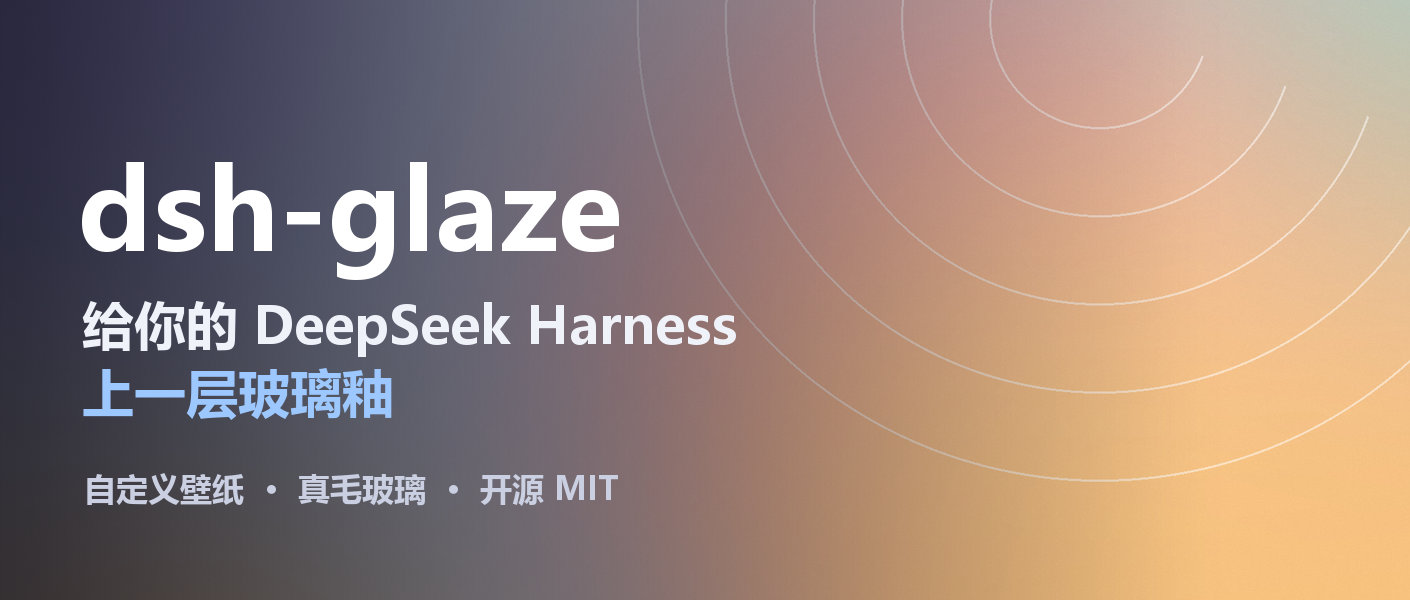
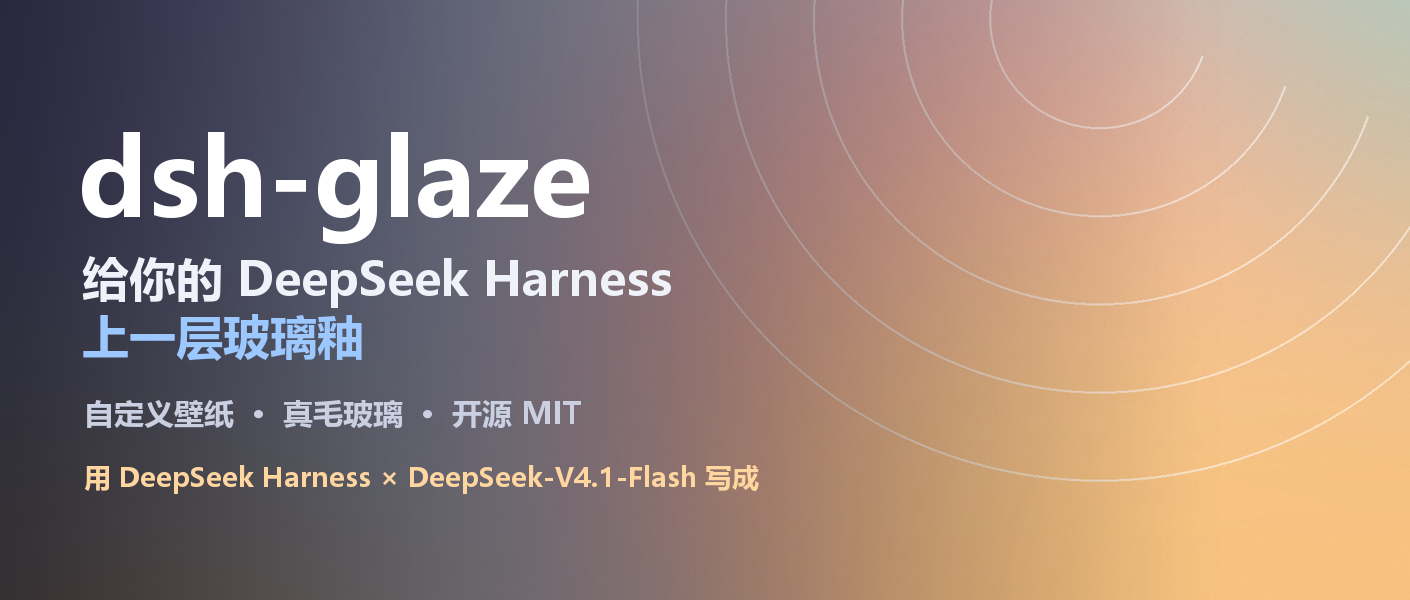
docs(article): 改成「用 Harness 写 Harness」的叙事
原文是平铺直叙的功能介绍，但这件事真正有意思的地方在于：插件是用它自己要装进去
的那个 Harness 写出来的，全程 DeepSeek-V4.1-Flash。

- 标题改为「我用 DeepSeek Harness，给 DeepSeek Harness 写了个外观插件」
- 正文重写为完整过程：起因 → 和调透明度的区别 → 四个真实踩过的坑 → 深色 →
  可调项 → 关掉能恢复 → 安装 → 说明
- 四个坑都来自真实调试经历（backdrop-filter 采样不到 z-index:-1、CSS 注释里一个
  反引号导致插件静默不加载、启动时配置表未就绪、清底判断的自我引用循环）
- 封面增加一行「用 DeepSeek Harness × DeepSeek-V4.1-Flash 写成」

Changed region(s): [[0.0312, 0.21, 0.5305, 0.72], [0.0624, 0.78, 0.5617, 0.84]]

diff --git a/tools/article/compose-figures.py b/tools/article/compose-figures.py
@@ -116,10 +116,12 @@ scrim = scrim.filter(ImageFilter.GaussianBlur(24))
 cover = Image.composite(Image.new("RGB", (COVER_W, COVER_H), (14, 16, 28)), band, scrim)
 
 cd = ImageDraw.Draw(cover)
-cd.text((78, 132), "dsh-glaze", font=font(112), fill=(255, 255, 255))
-cd.text((82, 288), "给你的 DeepSeek Harness", font=font(52), fill=(240, 242, 250))
-cd.text((82, 356), "上一层玻璃釉", font=font(52), fill=(156, 200, 255))
-cd.text((84, 466), "自定义壁纸  ·  真毛玻璃  ·  开源 MIT", font=font(32), fill=(202, 208, 226))
+cd.text((78, 104), "dsh-glaze", font=font(106), fill=(255, 255, 255))
+cd.text((82, 246), "给你的 DeepSeek Harness", font=font(47), fill=(240, 242, 250))
+cd.text((82, 304), "上一层玻璃釉", font=font(47), fill=(156, 200, 255))
+cd.text((84, 392), "自定义壁纸  ·  真毛玻璃  ·  开源 MIT", font=font(30), fill=(202, 208, 226))
+# The hook of the story: this plugin was built by Harness itself, on V4.1-Flash.
+cd.text((84, 458), "用 DeepSeek Harness × DeepSeek-V4.1-Flash 写成", font=font(27), fill=(255, 214, 160))
 cover.save(IMAGES / "cover.png", optimize=True)
 print("cover.png", cover.size)
 

diff --git a/docs/article/wechat.md b/docs/article/wechat.md
@@ -1,75 +1,104 @@
-# 给 DeepSeek Harness 换一套「玻璃皮肤」：dsh-glaze
+# 我用 DeepSeek Harness，给 DeepSeek Harness 写了个外观插件
 
-> 标题备选（挑一个用，或自己改）：
-> 1. 我给 DeepSeek Harness 做了套玻璃皮肤，壁纸终于是「透」出来的
-> 2. 把 DeepSeek Harness 泡进一层毛玻璃里｜dsh-glaze
-> 3. 用了两周，我给 DeepSeek Harness 写了个外观插件
+> 标题备选：
+> 1. 我用 DeepSeek Harness，给 DeepSeek Harness 写了个外观插件
+> 2. 全程 DeepSeek-V4.1-Flash：让它给 Harness 自己换一套玻璃皮肤
+> 3. 用 Harness 写 Harness：一个「自己改自己」的皮肤插件
 
 ---
 
-用 DeepSeek Harness 写代码久了，会有一个很朴素的念头：**这界面能不能好看一点。**
+这件事有点绕：**我用来写插件的东西，就是这个插件要装进去的东西。**
 
-不是功能不够，是每天盯着同一块白底太久。于是有了这个插件：**dsh-glaze**。
+过去这些天，我在 DeepSeek Harness 里开了一个会话，跟它说「我想换个壁纸、界面能不能透一点」，然后一路迭代到能发布。模型全程是 **DeepSeek-V4.1-Flash**，没有换过。
 
-名字里的 glaze 是「给器物上一层玻璃釉」。我想做的不是把界面调透明——那只是把底色变淡；我想让壁纸**真的从一层玻璃后面透出来**。
+我做的是提需求、看效果、指出哪里不对；它负责写代码、跑测试、截图自查。最后出来的东西叫 **dsh-glaze**。
 
 ![浅色主题下的 dsh-glaze](./images/fig-01-light.png)
 
-## 一、先说它和「调透明度」的区别
+## 一、起因很朴素
 
-很多「透明主题」的做法是把背景色加个 alpha，看起来像蒙了层塑料膜。dsh-glaze 用的是浏览器真正的 `backdrop-filter`：整个窗口后面铺着一张壁纸，前面盖一层磨砂玻璃，**模糊是滤镜做出的**，不是画上去的。
+每天用 Harness 写代码，界面是同一块白底。不是功能不够，就是想好看一点。
 
-所以毛玻璃开关一开一关，差别是这样的：
+我先试了常见的做法：把背景色调半透明。结果很难看——那不叫通透，叫「蒙了层脏塑料膜」。我想要的其实是**壁纸从一层玻璃后面透出来**。
 
-![左：关闭毛玻璃（壁纸是清晰的）｜右：开启毛玻璃（细节被糊掉）](./images/fig-05-compare.png)
+于是有了这个需求：铺一张壁纸，前面盖一层真的磨砂玻璃，字要清楚，壁纸要看得见。
 
-左边能看清壁纸上的同心圆弧，右边只剩柔和的光晕。**文字在右边才真正干净**——因为细节被模糊掉了，不会被壁纸纹理干扰。
+## 二、它和「调透明度」不是一回事
 
-这也是我坚持做「开关」的原因：模糊是滤镜，有代价。老机器、远程桌面、或者你就是喜欢清清爽爽，关掉它，插件会退化成纯半透明底色，更省也更快。
+关键差别在这张图里：
 
-## 二、深色也一起做了
+![左：关闭毛玻璃，壁纸清晰｜右：开启毛玻璃，细节被糊掉](./images/fig-05-compare.png)
 
-同一个插件，切到深色主题不会变成「白玻璃」，色调会跟着换：
+左边能看清壁纸上的同心圆弧，右边只剩柔光。**模糊是浏览器真的做了 `backdrop-filter`**，不是画上去的色块。
+
+正因为它是滤镜（有性能代价），我坚持留了个开关：不想模糊就关掉，退化成纯半透明底色，更省也更快。
+
+## 三、中间踩的坑，比想象中多
+
+这部分我觉得比功能介绍更有意思——**每一个坑都是我看出来的，改是它改的**。
+
+**① 壁纸死活不显示。**
+
+调了半天透明度，壁纸就是不出现。查下来是两个原因叠加：壁纸当时放在 `z-index:-1` 的独立图层上，而 `backdrop-filter` 采样的是「元素下面已绘制的像素」，那个图层根本不在采样范围里；同时外壳自己还画了一层不透明底色，把壁纸盖得死死的。
+
+改法：壁纸改成 `<body>` 自己的背景，进入页面绘制顺序，正好在内容层下面。
+
+**② 插件整个没加载，界面比原版还丑。**
+
+有一次改完，效果突然变得很差。控制台里一行字：`import failed: data is not defined`。
+
+原因是 CSS 的模板字符串里，我在注释中手滑写了一个反引号，把字符串提前闭合了，后面整个样式表被当成 JavaScript 解析。`node --check` 查不出这种问题——语法完全合法，一加载就炸。
+
+后来专门加了一个冒烟测试：用最小 React/DOM 桩，真的把插件跑一遍。这个检查后来又拦住我两次。
+
+**③ 关掉毛玻璃，重启又自己开了。**
+
+这其实是两个 bug。一个是我自己的维护脚本把配置覆盖了；更隐蔽的是，插件启动时只读了一次配置——而那一刻配置表还没就绪，读取**静默失败**，于是用了默认值，之后再也不重试。
+
+改法：订阅配置表 + 启动后有限重试。
+
+**④ 侧边栏偶尔变回原样。**
+
+这个最阴。清底色的逻辑是「判断这个容器背景是否不透明」——可一旦清掉，它算出来就是透明的，于是下一轮判断「不需要清」，把规则删了，它又变回不透明。**判断条件把自己算了进去**，形成自我引用循环。
+
+最后改成只看几何、不看颜色，并且规则按结构位置生成而不是往 DOM 上打标记——因为 React 重新渲染会覆写 `className`。
+
+## 四、深色也一起做了
+
+切换主题时，玻璃色调和遮罩会跟着换，不需要配两套：
 
 ![深色主题](./images/fig-02-dark.png)
 
-壁纸、玻璃色调、遮罩都是跟着主题走的，不需要你手动配两套。
+## 五、能调什么
 
-## 三、能调什么
-
-所有设置都在 **设置 → 外观** 里，一个页面：
+设置里就一个「外观」页面：
 
 ![设置页](./images/fig-03-settings.png)
 
 - **背景图** — PNG / JPEG / WebP / GIF / AVIF / BMP / SVG，单张最大 32 MB
-- **界面不透明度** — 0–100% 连续可调，100% 就是原版外观
-- **背景模糊** — 0–60px，模糊半径越大细节越少、文字越清楚
-- **背景明暗遮罩** — 用主题色压一层，亮色壁纸也能看清字
-- **整体压暗** — 独立的黑色遮罩，适合高对比的图
+- **界面不透明度** — 0–100%，100% 就是原版外观
+- **背景模糊** — 0–60px
+- **背景明暗遮罩 / 整体压暗** — 亮色、高对比的图也能看清字
 - **填充方式 / 对齐位置** — 铺满、完整显示、原始尺寸、平铺
-- **实时预览** — 右上角直接看到叠加结果，不用来回切
+- **实时预览** — 右上角当场看到叠加效果
 
-底部输入框下面那行统计（轮次 / token / 缓存命中）我也顺手做成了一个小胶囊，不然它悬在玻璃上像被人忘在那儿的文字。
+底部输入框下面那行统计（轮次 / token / 缓存命中）我也顺手收成了一个小胶囊——不然它悬在玻璃上，特别像被人忘在那儿的文字。
 
-## 四、不想用了，关掉就干净了
+## 六、不想用了，关掉就干净
 
-这一点我做得比较较真：**关掉总开关，界面必须完全恢复原样**，不能留下半点半透明或者被清空的底色。
+这条我做得比较较真：**关掉总开关，界面必须完全恢复原样**，不能留半点半透明或者被清空的底色。
 
 ![关闭后恢复原版](./images/fig-04-stock.png)
 
-不是把透明度调到 100%，而是真的把插件加的所有东西——玻璃层、遮罩、清底规则、壁纸——全部拆掉。壁纸和数值会留着，下次打开还在。
+不是把透明度调到 100%，而是把插件加的东西——玻璃层、遮罩、清底规则、壁纸——全部拆掉。壁纸和数值留着，下次打开还在。
 
-## 五、怎么装
+## 七、怎么装
 
 开源，MIT，代码在 GitHub：
 
 **https://github.com/Yue-Zeyi/dsh-glaze**
 
-安装方式看你的 Harness 版本：
-
-**① 如果插件管理里能填地址**
-
-直接填仓库地址：
+**① 插件管理里填地址**
 
 ```
 https://github.com/Yue-Zeyi/dsh-glaze
@@ -78,31 +107,30 @@ https://github.com/Yue-Zeyi/dsh-glaze
 **② 手动装进 profile**
 
 ```powershell
-$profile = "$env:USERPROFILE\.dsh\profiles\desktop"
-cd $profile
+cd "$env:USERPROFILE\.dsh\profiles\desktop"
 npm install github:Yue-Zeyi/dsh-glaze --save-exact
 ```
 
 然后把 `dsh-glaze` 加进 `package.json` 里 `dsh.profile.bundles` 数组，重启 Harness。
 
-两种方式装完都要**重启一次**，设置页里才会出现「外观」。
+装完都要**重启一次**，设置页才会出现「外观」。
 
-## 六、几点说明
+## 八、几点说明
 
-- **壁纸只在你本机。** 图片存在 `$DSH_HOME/dsh-glaze/`，不会上传到任何服务器，插件只在本机起几条 HTTP 路由读它。
-- **这是第三方插件，不是官方功能。** 出问题可以提 issue。
-- **需要 Chromium 111+ / Firefox 113+**（用到了 `color-mix`）。桌面端自带 Electron，满足要求。
+- **壁纸只在你本机**（`$DSH_HOME/dsh-glaze/`），不会上传到任何服务器。
+- **第三方插件，与 DeepSeek 官方无关。**
+- 需要 Chromium 111+ / Firefox 113+（用到了 `color-mix`），桌面端自带的 Electron 满足。
 
 ## 最后
 
-这个插件是从「每天看着同一块白底有点烦」开始的，后来为了「壁纸到底有没有真的透出来」反复改了很多版——包括一次把整个界面清成透明、一次因为一个反引号导致插件根本没加载。
+回头看，这件事本身比插件更有意思：**一个工具好用到了可以拿去改它自己。**
 
-现在它稳定了，也写得比较克制：能关、能恢复、不偷改你的设置、不联网。
+我没有写一行 CSS，也不知道 `backdrop-filter` 的采样规则——我只是每天看着不顺眼，然后一条条告诉它哪里不对。剩下的，包括那些我自己根本想不到的自我引用 bug，都是它查出来、改掉的。
 
-如果它让你的 Harness 好看了一点点，欢迎去仓库点个 star，或者提个 issue 告诉我哪里还能更好。
+插件已经发布了，欢迎试用，也欢迎告诉我哪里还能更好：
 
 **https://github.com/Yue-Zeyi/dsh-glaze**
 
 ---
 
-*本文提到的 dsh-glaze 为 MIT 许可的开源项目，与 DeepSeek 官方无关。*
+*本文提到的 dsh-glaze 为 MIT 许可开源项目，与 DeepSeek 官方无关。*
